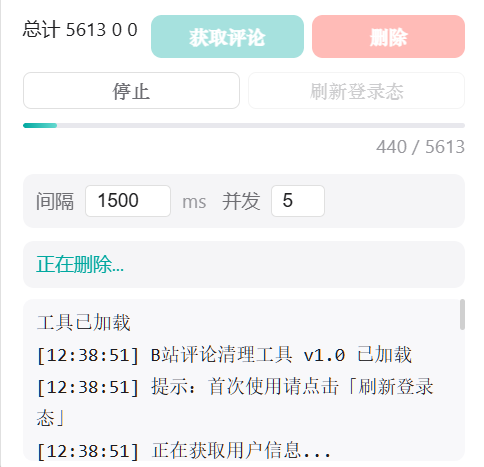
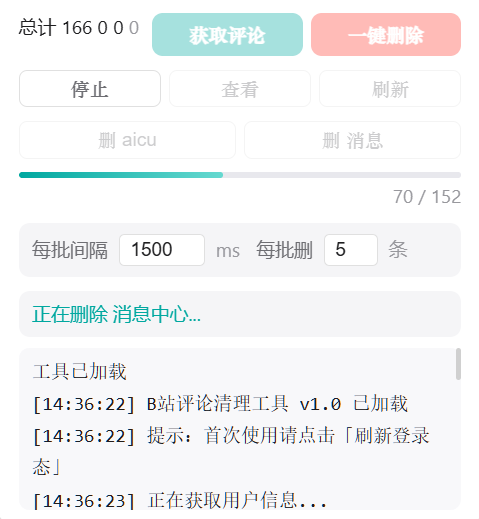
bug修复

diff --git a/bilibili-comment-cleaner.user.js b/bilibili-comment-cleaner.user.js
@@ -57,7 +57,10 @@
         progressWrap: null,
         btnFetch: null,
         btnDelete: null,
+        btnDelAicu: null,
+        btnDelMsg: null,
         btnStop: null,
+        btnView: null,
         btnRefresh: null,
         delayInput: null,
         concurrencyInput: null,
@@ -306,6 +309,7 @@
                         type: item.business_id || 1,
                         message: item.root_reply_content || item.source_content || '',
                         dyn: { oid: oid, type: item.business_id || 1 },
+                        _source: 'reply',
                     });
                 }
             }
@@ -341,6 +345,7 @@
                         type: 1,
                         message: item.title || '',
                         dyn: { oid: oid, type: 1 },
+                        _source: 'like',
                     });
                 }
             }
@@ -427,6 +432,7 @@
 
                 const existingIds = new Set(allReplies.map(r => r.rpid));
                 const newReplies = replies.filter(r => !existingIds.has(r.rpid));
+                newReplies.forEach(r => r._source = 'aicu');
                 allReplies = allReplies.concat(newReplies);
 
                 updateStatus(`已获取 ${allReplies.length} / ${totalKnown || '?'} 条评论`);
@@ -455,7 +461,7 @@
 
     async function batchDelete(comments) {
         const delay = parseInt($.delayInput.value, 10) || CONFIG.defaultDelay;
-        const concurrency = parseInt($.concurrencyInput.value, 10) || 3;
+        const concurrency = parseInt($.concurrencyInput.value, 10) || 5;
         const csrf = getCsrfFromCookie();
 
         if (!csrf) {
@@ -743,6 +749,17 @@
             color: var(--text-primary);
         }
 
+        #bcc-source-actions .bcc-source-btn {
+            flex: 1; height: 28px; padding: 0 10px;
+            border: 1px solid var(--border-color); border-radius: 6px;
+            font-size: 11px; font-weight: 500; cursor: pointer; transition: all 0.15s;
+            background: transparent; color: var(--text-secondary);
+        }
+        #bcc-source-actions .bcc-source-btn:disabled { opacity: 0.35; cursor: not-allowed; }
+        #bcc-source-actions .bcc-source-btn:hover:not(:disabled) {
+            background: var(--bg-secondary); color: var(--text-primary);
+        }
+
         #bcc-progress-wrap {
             display: none;
             margin-bottom: 10px;
@@ -855,6 +872,52 @@
             transform: scale(0.95);
         }
         #bcc-toggle.bcc-hidden { display: none; }
+
+        #bcc-overlay {
+            position: fixed; inset: 0; background: rgba(0,0,0,0.45);
+            z-index: 2147483647; display: none; align-items: center; justify-content: center;
+        }
+        #bcc-overlay.show { display: flex; }
+        #bcc-modal {
+            background: var(--bg-primary, #fff); border-radius: 14px;
+            width: min(600px, 90vw); max-height: 80vh; overflow: hidden;
+            box-shadow: 0 8px 40px rgba(0,0,0,0.25);
+            display: flex; flex-direction: column;
+        }
+        #bcc-modal-header {
+            display: flex; align-items: center; justify-content: space-between;
+            padding: 12px 16px; border-bottom: 1px solid var(--border-color, #e0e0e0);
+            font-weight: 600; font-size: 14px; color: var(--text-primary, #1d1d1f);
+        }
+        #bcc-modal-body {
+            overflow-y: auto; padding: 8px 0; flex: 1;
+        }
+        #bcc-modal-body::-webkit-scrollbar { width: 4px; }
+        #bcc-modal-body::-webkit-scrollbar-thumb { background: var(--scrollbar, #d0d0d0); border-radius: 2px; }
+        .bcc-citem {
+            padding: 10px 16px; border-bottom: 1px solid var(--border-color, #f0f0f0);
+            font-size: 13px; color: var(--text-primary, #1d1d1f); line-height: 1.5;
+        }
+        .bcc-citem:last-child { border-bottom: none; }
+        .bcc-citem .idx { color: var(--text-muted, #98989d); font-size: 11px; margin-right: 6px; }
+        .bcc-citem .msg { margin: 2px 0 4px; word-break: break-all; }
+        .bcc-citem .meta { font-size: 11px; color: var(--text-muted, #98989d); }
+        .bcc-citem .meta a { color: var(--accent, #00a8a0); text-decoration: none; }
+        .bcc-citem .meta a:hover { text-decoration: underline; }
+        #bcc-modal-close {
+            background: none; border: none; color: var(--text-muted, #98989d);
+            font-size: 20px; cursor: pointer; padding: 0 4px; font-family: serif;
+        }
+        #bcc-modal-close:hover { color: var(--danger, #ff3b30); }
+        #bcc-overlay.bcc-dark {
+            --bg-primary: #1c1c1e; --bg-secondary: #2c2c2e; --text-primary: #f0f0f0;
+            --text-muted: #6e6e73; --border-color: #3a3a3c; --scrollbar: #48484a;
+        }
+        #bcc-overlay.bcc-dark #bcc-modal { background: var(--bg-primary); }
+        #bcc-overlay.bcc-dark #bcc-modal-header { color: var(--text-primary); border-color: var(--border-color); }
+        #bcc-overlay.bcc-dark .bcc-citem { color: var(--text-primary); border-color: var(--border-color); }
+        #bcc-overlay.bcc-dark .bcc-citem .idx { color: var(--text-muted); }
+        #bcc-overlay.bcc-dark .bcc-citem .meta { color: var(--text-muted); }
     `;
 
     function applyTheme(theme) {
@@ -926,14 +989,21 @@
                     </div>
                     <div id="bcc-main-actions">
                         <button id="bcc-btn-fetch" class="bcc-btn bcc-btn-primary">获取评论</button>
-                        <button id="bcc-btn-delete" class="bcc-btn bcc-btn-danger" disabled>删除</button>
+                        <button id="bcc-btn-delete" class="bcc-btn bcc-btn-danger" disabled>一键删除</button>
                     </div>
                 </div>
 
                 <!-- 辅助按钮 -->
                 <div id="bcc-sub-actions">
                     <button id="bcc-btn-stop" class="bcc-btn" disabled>停止</button>
-                    <button id="bcc-btn-refresh" class="bcc-btn">刷新登录态</button>
+                    <button id="bcc-btn-view" class="bcc-btn" disabled>查看</button>
+                    <button id="bcc-btn-refresh" class="bcc-btn">刷新</button>
+                </div>
+
+                <!-- 来源删除 -->
+                <div id="bcc-source-actions" style="display:flex;gap:6px;margin-bottom:10px">
+                    <button id="bcc-btn-del-aicu" class="bcc-btn bcc-source-btn" disabled>删 aicu</button>
+                    <button id="bcc-btn-del-msg" class="bcc-btn bcc-source-btn" disabled>删 消息</button>
                 </div>
 
                 <!-- 进度 -->
@@ -948,7 +1018,7 @@
                     <input type="number" id="bcc-delay" value="${CONFIG.defaultDelay}" min="${CONFIG.minDelay}" max="${CONFIG.maxDelay}" step="100">
                     <span class="hint">ms</span>
                     <label style="margin-left:4px">每批删</label>
-                    <input type="number" id="bcc-concurrency" value="3" min="1" max="10" step="1" style="width:40px">
+                    <input type="number" id="bcc-concurrency" value="5" min="1" max="10" step="1" style="width:40px">
                     <span class="hint">条</span>
                 </div>
 
@@ -963,7 +1033,29 @@
         `;
         document.body.appendChild(panel);
 
+        // 查看评论弹窗
+        const overlay = document.createElement('div');
+        overlay.id = 'bcc-overlay';
+        overlay.innerHTML = `
+            <div id="bcc-modal">
+                <div id="bcc-modal-header">
+                    <span>评论列表</span>
+                    <button id="bcc-modal-close">&times;</button>
+                </div>
+                <div id="bcc-modal-body"></div>
+            </div>
+        `;
+        document.body.appendChild(overlay);
+        overlay.querySelector('#bcc-modal-close').addEventListener('click', () => overlay.classList.remove('show'));
+        overlay.addEventListener('click', (e) => { if (e.target === overlay) overlay.classList.remove('show'); });
         $.panel = panel;
+        $.overlay = overlay;
+        // 同步主题
+        if (panel.classList.contains('bcc-dark')) overlay.classList.add('bcc-dark');
+        const obs = new MutationObserver(() => {
+            overlay.classList.toggle('bcc-dark', panel.classList.contains('bcc-dark'));
+        });
+        obs.observe(panel, { attributes: true, attributeFilter: ['class'] });
         $.toggleBtn = toggleBtn;
         $.themeBtn = document.getElementById('bcc-theme-btn');
         $.statusEl = document.getElementById('bcc-status');
@@ -972,7 +1064,10 @@
         $.progressWrap = document.getElementById('bcc-progress-wrap');
         $.btnFetch = document.getElementById('bcc-btn-fetch');
         $.btnDelete = document.getElementById('bcc-btn-delete');
+        $.btnDelAicu = document.getElementById('bcc-btn-del-aicu');
+        $.btnDelMsg = document.getElementById('bcc-btn-del-msg');
         $.btnStop = document.getElementById('bcc-btn-stop');
+        $.btnView = document.getElementById('bcc-btn-view');
         $.btnRefresh = document.getElementById('bcc-btn-refresh');
         $.delayInput = document.getElementById('bcc-delay');
         $.concurrencyInput = document.getElementById('bcc-concurrency');
@@ -1000,8 +1095,11 @@
         makeDraggable(panel, document.getElementById('bcc-header'));
 
         $.btnFetch.addEventListener('click', onFetchComments);
-        $.btnDelete.addEventListener('click', onDeleteAll);
+        $.btnDelete.addEventListener('click', () => onDeleteAll('all'));
+        $.btnDelAicu.addEventListener('click', () => onDeleteAll('aicu'));
+        $.btnDelMsg.addEventListener('click', () => onDeleteAll('msg'));
         $.btnStop.addEventListener('click', onStop);
+        $.btnView.addEventListener('click', onViewComments);
         $.btnRefresh.addEventListener('click', onRefreshLogin);
 
         setTimeout(() => onRefreshLogin(), 500);
@@ -1050,40 +1148,23 @@
     }
 
     function makeToggleDraggable(el, onClick) {
-        let isDragging = false;
-        let startX, startY, origX, origY;
-        let moved = false;
-
+        let startX, startY, moved = false;
         el.addEventListener('mousedown', (e) => {
-            isDragging = true;
-            moved = false;
+            startX = e.clientX; startY = e.clientY; moved = false;
             const rect = el.getBoundingClientRect();
-            startX = e.clientX;
-            startY = e.clientY;
-            origX = rect.left;
-            origY = rect.top;
-            el.style.left = origX + 'px';
-            el.style.right = 'auto';
-            el.style.top = origY + 'px';
-            el.style.bottom = 'auto';
+            el.style.left = rect.left + 'px'; el.style.top = rect.top + 'px';
+            el.style.right = 'auto'; el.style.bottom = 'auto';
             el.style.transition = 'none';
-
             const onMove = (ev) => {
-                if (!isDragging) return;
-                const dx = ev.clientX - startX;
-                const dy = ev.clientY - startY;
-                if (Math.abs(dx) > 3 || Math.abs(dy) > 3) moved = true;
-                el.style.left = (origX + dx) + 'px';
-                el.style.top = (origY + dy) + 'px';
+                if (Math.abs(ev.clientX - startX) > 3 || Math.abs(ev.clientY - startY) > 3) moved = true;
+                el.style.left = (rect.left + ev.clientX - startX) + 'px';
+                el.style.top = (rect.top + ev.clientY - startY) + 'px';
             };
             const onUp = () => {
-                isDragging = false;
-                el.style.transition = 'box-shadow 0.2s, transform 0.15s';
-                if (!moved && onClick) {
-                    onClick();
-                }
                 document.removeEventListener('mousemove', onMove);
                 document.removeEventListener('mouseup', onUp);
+                el.style.transition = '';
+                if (!moved) onClick();
             };
             document.addEventListener('mousemove', onMove);
             document.addEventListener('mouseup', onUp);
@@ -1124,7 +1205,12 @@
 
     function toggleButtons(enabled) {
         $.btnFetch.disabled = !enabled || state.isFetching;
+        const hasAicu = state.comments.some(c => c._source === 'aicu');
+        const hasMsg = state.comments.some(c => c._source === 'reply' || c._source === 'like');
         $.btnDelete.disabled = !enabled || state.comments.length === 0;
+        $.btnDelAicu.disabled = !enabled || !hasAicu;
+        $.btnDelMsg.disabled = !enabled || !hasMsg;
+        $.btnView.disabled = !enabled || state.comments.length === 0;
         $.btnStop.disabled = enabled;
         $.btnRefresh.disabled = !enabled;
         if (state.isFetching) {
@@ -1262,7 +1348,7 @@
         }
     }
 
-    async function onDeleteAll() {
+    async function onDeleteAll(source) {
         if (state.comments.length === 0) {
             updateStatus('没有可删除的评论', 'bcc-error');
             return;
@@ -1276,12 +1362,27 @@
             return;
         }
 
+        let targetComments = state.comments;
+        let label = '全部';
+        if (source === 'aicu') {
+            targetComments = state.comments.filter(c => c._source === 'aicu');
+            label = 'aicu';
+        } else if (source === 'msg') {
+            targetComments = state.comments.filter(c => c._source === 'reply' || c._source === 'like');
+            label = '消息中心';
+        }
+
+        if (targetComments.length === 0) {
+            updateStatus(`${label} 无可删除评论`, 'bcc-error');
+            return;
+        }
+
         $.progressWrap.classList.add('bcc-show');
         updateProgress(0, 0);
-        appendLog(`开始删除 ${state.comments.length} 条评论...`, 'warn');
-        updateStatus('正在删除...', 'bcc-loading');
+        appendLog(`开始删除 ${label} ${targetComments.length} 条评论...`, 'warn');
+        updateStatus(`正在删除 ${label}...`, 'bcc-loading');
 
-        await batchDelete(state.comments);
+        await batchDelete(targetComments);
 
         // 移除已处理（成功+失败）的条目，剩余的可继续删
         const processed = state.deletedCount + state.skippedCount + state.failedCount;
@@ -1301,6 +1402,78 @@
             appendLog('正在停止...（等待当前删除完成）', 'warn');
             updateStatus('正在停止...', '');
         }
+    }
+
+    const VIEW_PAGE_SIZE = 50;
+    let viewPage = 0;
+
+    function commentUrl(c) {
+        const oid = c.dyn ? c.dyn.oid : c.oid;
+        const type = c.dyn ? c.dyn.type : c.type || 1;
+        if (type === 1 && oid) {
+            return `https://www.bilibili.com/video/av${oid}#reply${c.rpid}`;
+        }
+        if (type === 12 && oid) {
+            return `https://live.bilibili.com/${oid}#reply${c.rpid}`;
+        }
+        return null;
+    }
+
+    function renderViewPage() {
+        const body = $.overlay.querySelector('#bcc-modal-body');
+        const comments = state.comments;
+        const total = comments.length;
+        const totalPages = Math.ceil(total / VIEW_PAGE_SIZE);
+        const start = viewPage * VIEW_PAGE_SIZE;
+        const end = Math.min(start + VIEW_PAGE_SIZE, total);
+        const page = comments.slice(start, end);
+
+        body.innerHTML = '';
+        for (let i = 0; i < page.length; i++) {
+            const c = page[i];
+            const msg = decodeEntities(c.message || '');
+            const url = commentUrl(c);
+            const typeLabel = getCommentTypeLabel(c.dyn ? c.dyn.type : c.type);
+            const div = document.createElement('div');
+            div.className = 'bcc-citem';
+            div.innerHTML = `
+                <span class="idx">#${start + i + 1}</span>
+                <span class="meta">[${typeLabel}]</span>
+                <div class="msg">${escapeHtml(msg).substring(0, 200)}</div>
+                <div class="meta">
+                    rpid: ${c.rpid}
+                    ${url ? `| <a href="${url}" target="_blank">跳转视频评论</a>` : ''}
+                </div>
+            `;
+            body.appendChild(div);
+        }
+
+        const footer = document.createElement('div');
+        footer.style.cssText = 'padding:10px 16px;display:flex;align-items:center;justify-content:space-between;border-top:1px solid var(--border-color,#e0e0e0);font-size:12px;color:var(--text-muted,#98989d)';
+        footer.innerHTML = `
+            <span>${start + 1}-${end} / ${total}</span>
+            <div style="display:flex;gap:6px">
+                <button id="bcc-page-prev" style="padding:4px 12px;border:1px solid var(--border-color,#e0e0e0);border-radius:4px;background:transparent;color:var(--text-primary);cursor:pointer;font-size:12px" ${viewPage === 0 ? 'disabled' : ''}>上一页</button>
+                <button id="bcc-page-next" style="padding:4px 12px;border:1px solid var(--border-color,#e0e0e0);border-radius:4px;background:transparent;color:var(--text-primary);cursor:pointer;font-size:12px" ${viewPage >= totalPages - 1 ? 'disabled' : ''}>下一页</button>
+            </div>
+        `;
+        body.appendChild(footer);
+
+        const prevBtn = footer.querySelector('#bcc-page-prev');
+        const nextBtn = footer.querySelector('#bcc-page-next');
+        if (prevBtn) prevBtn.addEventListener('click', () => { viewPage--; renderViewPage(); });
+        if (nextBtn) nextBtn.addEventListener('click', () => { viewPage++; renderViewPage(); });
+    }
+
+    function onViewComments() {
+        if (state.comments.length === 0) return;
+        viewPage = 0;
+        renderViewPage();
+        $.overlay.classList.add('show');
+    }
+
+    function escapeHtml(s) {
+        return String(s).replace(/&/g,'&amp;').replace(/</g,'&lt;').replace(/>/g,'&gt;').replace(/"/g,'&quot;');
     }
 
 